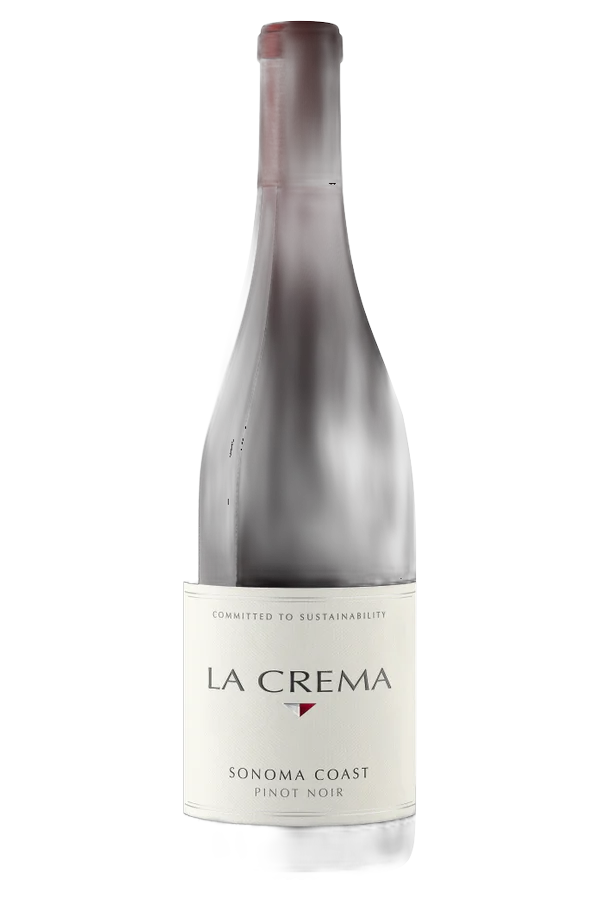
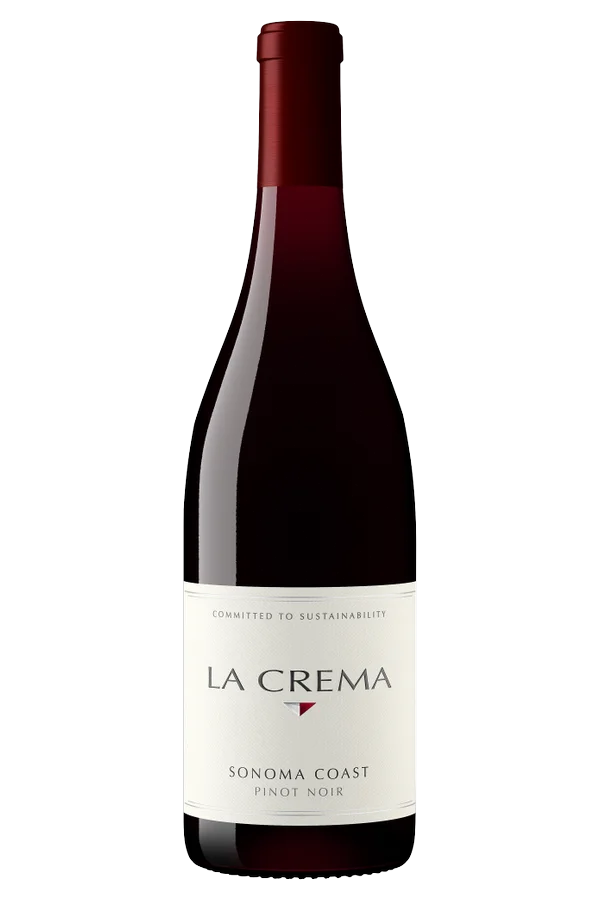
fix: recut 11 bottle images from their original packshots
Nine sources (Guiraud, Lafaurie-Peyraguey, Suduiraut, Justin Isosceles,
La Crema, Quintessenza, Montes Alpha, Rosalack, Willamette Whole Cluster)
already ship as transparent PNGs. Running rembg over them turned dark and
clear glass see-through and clipped necks and capsules, so process_image
now keeps a source's own alpha when it already has a cut-out background.

Cloudy Bay's artwork and Riunite Rosé's halo are baked into their source
alpha; the new --flatten option puts such a source on white and cuts it
out again, here with --model birefnet-general.

Claude-Session: https://claude.ai/code/session_01WeT7fXfNGCJsuwXAkzsxC6

diff --git a/scripts/process_wine_images.py b/scripts/process_wine_images.py
@@ -124,18 +124,50 @@ def fill_interior_holes(image):
     return Image.fromarray(arr, "RGBA")
 
 
-def process_image(raw_path, out_path, remover):
+TRANSPARENT_SHARE = 0.05
+
+
+def has_transparent_background(image):
+    """True when the source already ships cut out: a meaningful share of its
+    pixels is fully transparent. Packshots are often cropped tight to the
+    bottle, so the border alone is not a reliable signal."""
+    if "A" not in image.getbands() and "transparency" not in image.info:
+        return False
+    alpha = np.array(image.convert("RGBA").getchannel("A"))
+    return (alpha == 0).mean() >= TRANSPARENT_SHARE
+
+
+def flatten_on_white(image):
+    white = Image.new("RGBA", image.size, (255, 255, 255, 255))
+    white.alpha_composite(image.convert("RGBA"))
+    return white
+
+
+def process_image(raw_path, out_path, remover, flatten=False):
+    """flatten=True is for transparent sources whose alpha still carries
+    artwork or a halo: they are put on white and cut out by the remover."""
     with Image.open(raw_path) as source:
-        cutout = remover(source.convert("RGBA"))
+        # rembg on an already-transparent packshot turns dark or clear glass
+        # see-through, so a source with its own clean alpha is used as-is.
+        rgba = source.convert("RGBA")
+        if flatten:
+            cutout = remover(flatten_on_white(rgba))
+        elif has_transparent_background(source):
+            cutout = rgba
+        else:
+            cutout = remover(rgba)
     cutout = fill_interior_holes(cutout)
     out_path.parent.mkdir(parents=True, exist_ok=True)
     fit_on_canvas(cutout).save(out_path, "WEBP", quality=WEBP_QUALITY)
 
 
-def rembg_remover():
+DEFAULT_MODEL = "isnet-general-use"
+
+
+def rembg_remover(model=DEFAULT_MODEL):
     from rembg import new_session, remove
 
-    session = new_session("isnet-general-use")
+    session = new_session(model)
     return lambda image: remove(image, session=session)
 
 
@@ -152,7 +184,7 @@ def init_manifest():
     print(f"Wrote {len(manifest)} rows to {MANIFEST_PATH}")
 
 
-def process_all(only=None, force=False):
+def process_all(only=None, force=False, model=DEFAULT_MODEL, flatten=False):
     manifest = read_wines_csv(MANIFEST_PATH)
     remover = None
     missing = []
@@ -166,8 +198,8 @@ def process_all(only=None, force=False):
         if raw_path is None:
             missing.append(slug)
             continue
-        remover = remover or rembg_remover()
-        process_image(raw_path, out_path, remover)
+        remover = remover or rembg_remover(model)
+        process_image(raw_path, out_path, remover, flatten=flatten)
         print(f"processed {slug}")
 
     urls = {slug: f"/wines/{slug}.webp" for slug in manifest["slug"] if (OUT_DIR / f"{slug}.webp").exists()}
@@ -186,11 +218,17 @@ def main(argv=None):
     process = commands.add_parser("process", help="Cut out raw images and update CSV image_url")
     process.add_argument("--only", help="Process a single slug")
     process.add_argument("--force", action="store_true", help="Reprocess even if output exists")
+    process.add_argument("--model", default=DEFAULT_MODEL, help="rembg model, e.g. birefnet-general")
+    process.add_argument(
+        "--flatten",
+        action="store_true",
+        help="Put a transparent source on white and cut it out again (artwork or halo baked into its alpha)",
+    )
     args = parser.parse_args(argv)
     if args.command == "init-manifest":
         init_manifest()
     else:
-        process_all(only=args.only, force=args.force)
+        process_all(only=args.only, force=args.force, model=args.model, flatten=args.flatten)
 
 
 if __name__ == "__main__":

diff --git a/tests/scripts/test_process_wine_images.py b/tests/scripts/test_process_wine_images.py
@@ -9,6 +9,7 @@ from scripts.process_wine_images import (
     fill_interior_holes,
     fit_on_canvas,
     has_bom,
+    has_transparent_background,
     process_image,
     read_wines_csv,
     set_image_urls,
@@ -156,3 +157,47 @@ def test_process_image_writes_transparent_webp(tmp_path):
         assert written.mode == "RGBA"
         assert written.getpixel((5, 5))[3] == 0
         assert written.getpixel((300, 450))[3] == 255
+
+
+def _fail_remover(image):
+    raise AssertionError("remover must not run on an already-transparent source")
+
+
+def test_process_image_keeps_existing_transparency_without_remover(tmp_path):
+    # Producer packshots often ship as transparent PNGs; running rembg on
+    # them punches holes in dark or clear glass, so their own alpha wins.
+    raw = tmp_path / "bottle.png"
+    source = Image.new("RGBA", (200, 400), (255, 255, 255, 0))
+    source.paste((40, 10, 20, 255), (70, 40, 130, 360))
+    source.save(raw, "PNG")
+    out = tmp_path / "bottle.webp"
+
+    process_image(raw, out, _fail_remover)
+
+    with Image.open(out) as written:
+        assert written.getpixel((5, 5))[3] == 0
+        assert written.getpixel((300, 450))[3] == 255
+
+
+def test_has_transparent_background_needs_fully_transparent_pixels():
+    clear = Image.new("RGBA", (50, 50), (0, 0, 0, 0))
+    clear.paste((200, 0, 0, 255), (10, 10, 40, 40))
+    assert has_transparent_background(clear)
+    assert not has_transparent_background(Image.new("RGBA", (50, 50), (255, 255, 255, 255)))
+    assert not has_transparent_background(Image.new("RGB", (50, 50), (255, 255, 255)))
+
+
+def test_process_image_flatten_sends_transparent_source_to_remover_on_white(tmp_path):
+    raw = tmp_path / "bottle.png"
+    source = Image.new("RGBA", (200, 400), (0, 0, 0, 0))
+    source.paste((40, 10, 20, 255), (70, 40, 130, 360))
+    source.save(raw, "PNG")
+    seen = []
+
+    def remover(image):
+        seen.append(image.convert("RGB").getpixel((5, 5)))
+        return _white_to_transparent(image)
+
+    process_image(raw, tmp_path / "bottle.webp", remover, flatten=True)
+
+    assert seen == [(255, 255, 255)]
